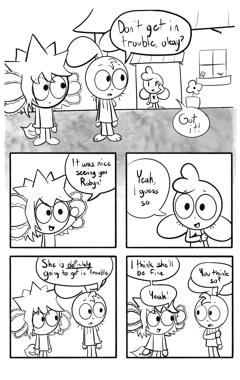
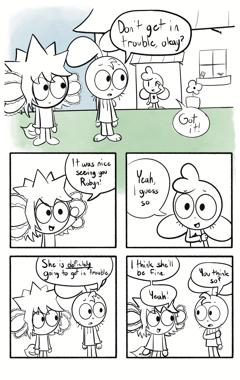
style changes

Changed region(s): [[0.0, 0.1447, 0.9917, 0.5211], [0.0292, 0.0, 0.4083, 0.1737], [0.1167, 0.2605, 0.1458, 0.2895]]

diff --git a/content/themes/universe_v2/css/stylesheet.css b/content/themes/universe_v2/css/stylesheet.css
@@ -1,14 +1,3 @@
-/*
-Change these options to customize the color scheme and a few layout options of your website.
-Most layout options are stored in src/css/advanced_stylesheet.css. I do not recommend messing with those settings
-unless you know what you're doing, or you're willing to spend a lot of time on trial and error.
-
-For any colors, you can represent them in hexadecimal like this (#FF0000 = red)
-or use this list of available color names: https://www.w3schools.com/cssref/css_colors.asp
- */
-
-/* Global values */
-
 html {
     height: 100%;
     margin: 0;
@@ -17,28 +6,40 @@ html {
 body {
     height: 100%;
     margin: 0;
-    font-family: 'PT Sans', sans-serif;  /* The font of all the text on all pages */
-    color: black;  /* The color of the font of most of the text on your website */
-    background-color: white;  /* The color of the background behind everything */
-    background-image: url("../../../images/8-1-wide.png");
-    background-size: cover;
-    background-attachment: fixed;
+    font-family: 'Noto Sans', sans-serif;
+    color: black;
+    background-color: unset;
+    background-image: unset;
 }
 
 h1, h2, h3 {
-    font-family: 'Roboto Slab', cursive;
+    font-family: 'Noto Sans', cursive;
 }
 
 a {
-    color: #2E9BC7;  /* The color of the hyperlinks */
+    color: #2E9BC7;
+}
+
+/* realistically im not doing anything that would require the background to be done
+   as a div, however it would be really useful if i decide to blur the bg or something */
+#background {
+    background-image: url("../../../images/8-1-wide.png");
+    background-size: cover;
+    background-attachment: fixed;
+    background-repeat: no-repeat;
+    background-position: center;
+
+    height: 100%;
+    width: 100%;
+    position: fixed;
+    z-index: -1;
 }
 
 #container {
     width: 1200px;
-    max-width: 100%;  /* The width of the main box that contains all content on the pages */
-    background-color: white;  /* The background color of the main box */
-    box-shadow: 5px 5px 10px rgba(120, 120, 120, 0.2);  /* This is the drop shadow of the main box. If you change the background color
-                                            of your website, play with this or else it will look bad. */
+    max-width: 100%; 
+    background-color: white;
+    box-shadow: 0px 0px 15px rgba(120, 120, 120, 0.2);
     padding: 0;
     margin: 0;
     min-height: 100%;
@@ -55,37 +56,37 @@ a {
 
 /* Top navigation links bar */
 #links-bar {
-    background: unset;  /* The background color of your links bar */
+    background: unset;
     border-bottom: solid #2E9BC7 5px;
 }
 
 a.link-bar-link {
-    color: black;  /* The color of the links in your links bar */
-    font-weight: bold;  /* Delete this to unbold the links in your links bar*/
-    text-decoration: none;  /* Delete this line to put underlining on the links in your links bar */
+    color: black; 
+    font-weight: normal;
+    text-decoration: none;
 }
 
 a.link-bar-link:hover {
-    color: #2E9BC7;  /* The color of the links in your links bar while the cursor is hovering over them */
+    color: #2E9BC7;
 }
 
 /* Comic navigation buttons */
 a.navigation-button {
-    color: #2E9BC7;  /* Color of the navigation bar hyperlinks */
-    font-size: 2em;  /* Size of the navigation bar hyperlinks */
-    text-decoration: none;  /* Delete this if you want your navigation links to be underlined */
+    color: #2E9BC7; 
+    font-size: 2em; 
+    text-decoration: none;
 }
 
 a.navigation-button-disabled {
-    color: gray;  /* Color of the disabled navigation bar hyperlinks */
-    font-size: 2em;  /* Size of the disabled navigation bar hyperlinks */
-    text-decoration: none;  /* Delete this if you want your disabled navigation links to be underlined */
+    color: gray;
+    font-size: 2em;
+    text-decoration: none;
 }
 
 /* Buttons: turn any link into a button by adding class="button" within the a tag */
 .button {
-    background-color: #2E9BC7;  /* Color of button hyperlinks */
-    color: white;  /* Color of the words in button hyperlinks */
+    background-color: #2E9BC7;
+    color: white;
     -webkit-user-select: none; /* Safari */        
     -moz-user-select: none; /* Firefox */
     -ms-user-select: none; /* IE10+/Edge */
@@ -93,31 +94,31 @@ a.navigation-button-disabled {
 }
 
 .button:hover {
-    background-color: #62C5E8;  /* Color of button hyperlinks when the mouse hovers over it */
-    color: white;    /* Color of the words in button hyperlinks when the mouse hovers over it */
+    background-color: #62C5E8;
+    color: white;
 }
 
 /* Comic page-specific styling */
 #blurb {
-     background-color: unset; /*#F6FBFE;  /* The color of the "blurb" box that contains post title, post date, tags, etc. */
-    width: 75%;  /* The maximum width of the blurb box. */
-    /* border-left: 3px dotted #62C5E8;  /* If you change the background color of the blurb, play with these two lines or else it will look bad 
+     background-color: unset; /*#F6FBFE;*/
+    width: 75%; 
+    /* border-left: 3px dotted #62C5E8;
     border-right: 3px dotted #62C5E8; */
     border: none;
 }
 
 h1#post-title {
-    color: black;  /* Color of the post title */
-    font-size: 3em;  /* Font size of the post title */
-    font-family: 'Roboto Slab', cursive;
+    color: black;
+    font-size: 3em;
+    font-family: 'Noto Sans', cursive;
 }
 
 #post-date {
-    font-weight: bold;  /* Delete this to unbold the post date */
+    font-weight: bold;
 }
 
 #storyline, #characters, #tags {
-    font-style: italic;  /* Delete this to unitalicize the tags */
+    font-style: unset;
 }
 
 #transcript-panel {

diff --git a/content/themes/universe_v2/css/fonts.css b/content/themes/universe_v2/css/fonts.css
@@ -9,3 +9,4 @@ Add everything between the <style> tags below. */
 font-family: 'Roboto Slab', serif to use the example font included below! */
 
 @import url('https://fonts.googleapis.com/css2?family=Roboto+Slab:wght@600&display=swap');
+@import url('https://fonts.googleapis.com/css2?family=Noto+Sans:ital,wght@0,100;0,200;0,300;0,400;0,500;0,600;0,700;0,800;0,900;1,100;1,200;1,300;1,400;1,500;1,600;1,700;1,800;1,900&display=swap');
